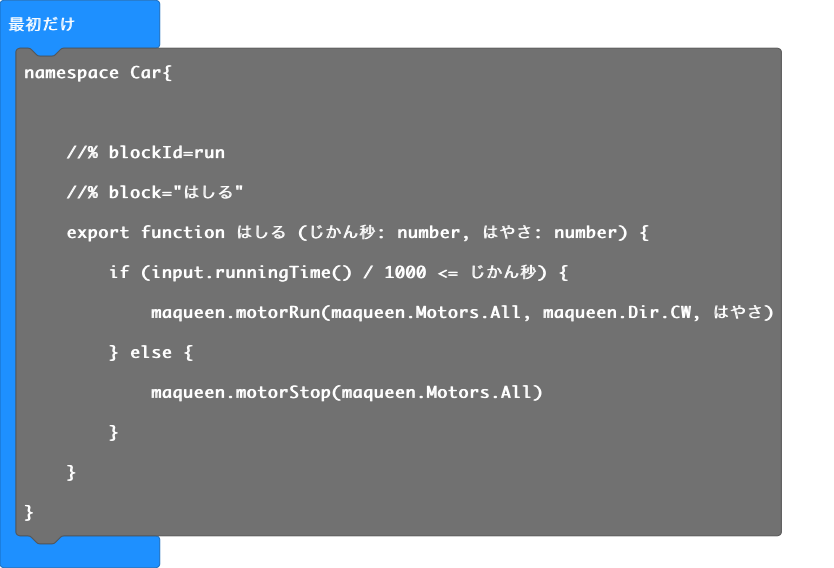
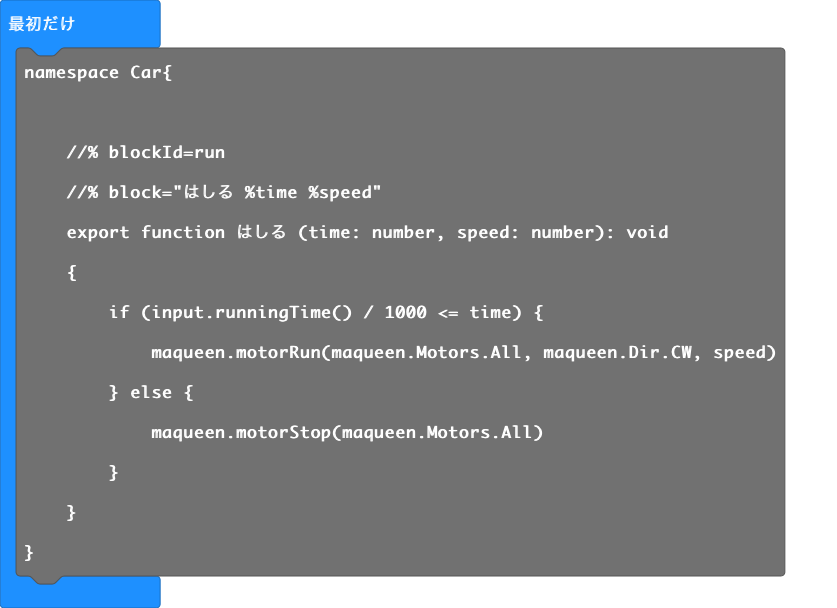
更新 pxt.json, main.blocks, main.ts

diff --git a/main.ts b/main.ts
@@ -4,10 +4,9 @@ namespace Car{
     //% block="はしる %time %speed"
     export function はしる (time: number, speed: number): void
     {
-        if (input.runningTime() / 1000 <= time) {
-            maqueen.motorRun(maqueen.Motors.All, maqueen.Dir.CW, speed)
-        } else {
+        maqueen.motorRun(maqueen.Motors.All, maqueen.Dir.CW, speed)
+        if(input.runningTime() / 1000 == time) {
             maqueen.motorStop(maqueen.Motors.All)
-        }
+       }
     }
 }
